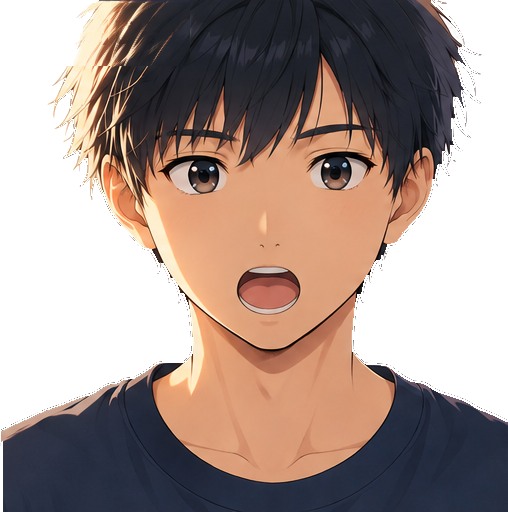
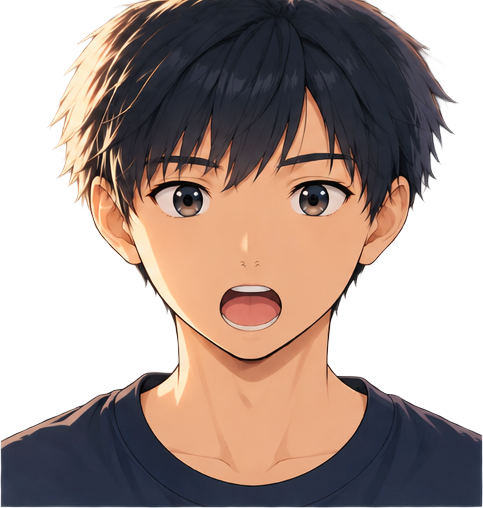
口パク素材の差し替え・声の変更・サムネイル改善・YouTube 設定手順の追加
- 新しい口パクシート（透過背景）に差し替え。prepare_character.py を透過背景のシートに対応
- 口パクの顔と表情の顔の大きさを揃える倍率を調整
- キャラの白フチを滑らかにして、髪の毛先のギザギザを解消
- 声の既定を白上虎太郎（話者ID 12）に変更
- サムネイル: 主題（スマホならスマホ本体）を大きく描く指示、2行の大きな文字、単語の途中で改行しない
- SETUP.md: YouTube の認証をブラウザだけで取得できる手順（OAuth 2.0 Playground）に更新

Claude-Session: https://claude.ai/code/session_01EomXqUG2rbQjMVzrZKAmid

diff --git a/main.py b/main.py
@@ -64,7 +64,7 @@ IMAGE_STYLE = os.getenv(
 )
 
 VOICEVOX_URL = os.getenv("VOICEVOX_URL", "http://localhost:50021")
-VOICEVOX_SPEAKER = int(os.getenv("VOICEVOX_SPEAKER") or "3")   # 3 = ずんだもん（ノーマル）
+VOICEVOX_SPEAKER = int(os.getenv("VOICEVOX_SPEAKER") or "12")  # 12 = 白上虎太郎（ふつう）。Variables で変更可
 VOICEVOX_SPEED = float(os.getenv("VOICEVOX_SPEED", "1.12"))
 TTS_ENGINE = os.getenv("TTS_ENGINE", "voicevox")               # voicevox / gtts
 
@@ -82,7 +82,7 @@ EXPRESSIONS = ("normal", "smile", "surprised", "thinking")
 # 解説キャラクター（assets/character/*.png があれば画面右下に表示）
 CHARACTER_DIR = Path(os.getenv("CHARACTER_DIR", "assets/character"))
 CHARACTER_HEIGHT = int(os.getenv("CHARACTER_HEIGHT", "430"))
-TALK_SCALE = float(os.getenv("TALK_SCALE", "1.035"))  # 口パク素材と表情素材の顔の大きさを揃える倍率
+TALK_SCALE = float(os.getenv("TALK_SCALE", "1.12"))  # 口パク素材と表情素材の顔の大きさを揃える倍率
 MOUTHS = ("a", "i", "u", "e", "o", "n")
 
 # 台本の品質チェック（企画との一致度・具体性）の合格ライン（10点満点）
@@ -110,8 +110,11 @@ class Script(BaseModel):
     video_title: str = Field(description="YouTube の動画タイトル（日本語、40文字以内）")
     description: str = Field(description="動画の概要欄の本文（日本語、3〜5行）")
     tags: list[str] = Field(description="YouTube のタグ 8〜15個")
-    thumbnail_text: str = Field(description="サムネイルに大きく載せる短いコピー（8〜14文字）")
-    thumbnail_prompt: str = Field(description="サムネイル用の印象的な挿絵の英語プロンプト。文字は含めない。")
+    thumbnail_text: str = Field(description="サムネイルに大きく載せる2行のコピー。1行目と2行目を改行(\\n)で区切り、各行2〜7文字。"
+                                            "単語の途中で改行しない。思わずクリックしたくなる強い言葉（例: スマホが\\n危ない！）")
+    thumbnail_prompt: str = Field(description="サムネイル用の挿絵の英語プロンプト。動画の主題そのもの（例: スマホの話ならスマートフォン本体、"
+                                              "お金の話なら紙幣や財布）を画面の左〜中央に大きくはっきり描く。明るく高コントラストで、背景はシンプル。"
+                                              "画面の右側3分の1は人物を置くので主題を置かない。人物・文字・ロゴは描かない。")
     chapters: list[Chapter]
 
 
@@ -415,7 +418,7 @@ class TTS:
                     return sp["name"]
         except Exception:
             pass
-        return "ずんだもん"
+        return "白上虎太郎"
 
     def synth(self, text: str) -> tuple[np.ndarray, list | None]:
         """音声と口パク用のタイミング [(開始秒, 終了秒, 口の形), ...] を返す。
@@ -726,16 +729,19 @@ class Character:
         img = img.resize((round(img.width * height / img.height), height), Image.LANCZOS)
         a0 = np.asarray(img.getchannel("A"))
         # 素材の上・左右が画像の端でまっすぐ切れているか（髪の毛が見切れている素材など）
-        cut_top = (a0[0] > 128).mean() > 0.03
-        cut_left = (a0[:, 0] > 128).mean() > 0.03
-        cut_right = (a0[:, -1] > 128).mean() > 0.03
+        # 髪の先が端に少し触れているだけなら「切れている」とはみなさない（不透明な部分が辺の15%以上で判定）
+        cut_top = (a0[0] > 128).mean() > 0.15
+        cut_left = (a0[:, 0] > 128).mean() > 0.15
+        cut_right = (a0[:, -1] > 128).mean() > 0.15
 
         pad = 12
         canvas = Image.new("RGBA", (img.width + pad * 2, img.height + pad), (0, 0, 0, 0))
         canvas.paste(img, (pad, pad), img)
         # 背景から浮かせるための白フチ
         a = canvas.getchannel("A").point(lambda v: 255 if v > 90 else 0)
-        a = a.filter(ImageFilter.MaxFilter(13)).filter(ImageFilter.GaussianBlur(1.2))
+        # 太らせてからぼかし→しきい値で角を丸め、髪の毛先でフチがギザギザになるのを防ぐ
+        a = a.filter(ImageFilter.MaxFilter(15)).filter(ImageFilter.GaussianBlur(8))
+        a = a.point(lambda v: 255 if v > 100 else 0).filter(ImageFilter.GaussianBlur(1.5))
         a = Image.fromarray((np.asarray(a).astype(np.float32) * 0.95).astype(np.uint8))
         out = Image.new("RGBA", canvas.size, (255, 255, 255, 0))
         out.putalpha(a)
@@ -976,50 +982,83 @@ def render_video(timeline: list[dict], narration_path: Path) -> Path:
 
 # ============================== 5. サムネイル・メタデータ ==============================
 
+def split_thumb_text(text: str) -> list[str]:
+    """サムネの文言を2行に分ける。改行があればそれに従い、なければ助詞などの切れ目で中央付近を選ぶ。"""
+    text = text.strip().replace("\\n", "\n")
+    if "\n" in text:
+        return [l.strip() for l in text.split("\n") if l.strip()][:2]
+    if len(text) <= 7:
+        return [text]
+    mid = len(text) / 2
+    cands = [i + 1 for i, ch in enumerate(text[:-1])
+             if ch in "のもはがをにでとへや、！？!?" or (ch in "ーっ" and i + 1 < len(text))]
+    # カタカナ語の途中で切らない
+    kata = lambda c: "゠" <= c <= "ヿ"
+    cands = [i for i in cands if not (kata(text[i - 1]) and kata(text[i]))]
+    cut = min(cands, key=lambda i: abs(i - mid)) if cands else int(mid)
+    if abs(cut - mid) > len(text) * 0.35:
+        cut = int(mid)
+    return [text[:cut], text[cut:]]
+
+
+def _fit_font(line: str, max_w: int, max_size: int, min_size: int = 70):
+    size = max_size
+    font = load_font(size)
+    while font.getlength(line) > max_w and size > min_size:
+        size -= 6
+        font = load_font(size)
+    return font
+
+
 def make_thumbnail(script: Script, timeline: list[dict], seed: int) -> Path:
+    """主題が伝わる絵＋大きな2行の文字＋驚き顔のキャラ、のYouTubeらしいサムネを作る。"""
     TW, TH = 1280, 720
     path = WORK / "thumbnail.jpg"
     src = IMG_DIR / "thumbnail_src.jpg"
     get_scene_image(script.thumbnail_prompt, timeline[0]["search_keyword"], src, seed)
-    img = Image.open(src).convert("RGB").resize((TW, TH), Image.LANCZOS)
-    img = ImageEnhance.Contrast(img).enhance(1.15)
-    img = ImageEnhance.Color(img).enhance(1.2)
+    img = Image.open(src).convert("RGB")
+    # 中央から 16:9 に切り抜いて、明るく・鮮やかに
+    img = img.resize((TW, TH), Image.LANCZOS)
+    img = ImageEnhance.Contrast(img).enhance(1.2)
+    img = ImageEnhance.Color(img).enhance(1.3)
+    img = ImageEnhance.Brightness(img).enhance(1.05)
 
-    # 文字を読みやすくするため下側を暗くする
+    # 文字の後ろ（左下）だけを暗くして、絵の主題は明るいまま残す
     shade = Image.new("L", (TW, TH), 0)
-    ImageDraw.Draw(shade).rectangle((0, 360, TW, TH), fill=160)
-    shade = shade.filter(ImageFilter.GaussianBlur(60))
+    ImageDraw.Draw(shade).rectangle((0, 400, 900, TH), fill=175)
+    shade = shade.filter(ImageFilter.GaussianBlur(70))
     img.paste((0, 0, 0), (0, 0), shade)
+    img = img.convert("RGBA")
 
-    # 驚いた表情のキャラを右下に大きく配置
-    text_right = TW - 50
-    char = Character(560)
+    # 驚き顔のキャラを右下に大きく
+    text_right = TW - 40
+    char = Character(600)
     if char.enabled:
         sprite = char.get("surprised")
-        x = TW - sprite.width + 40
-        img.paste(sprite, (x, TH - sprite.height + 14), sprite)
-        text_right = x + 60
+        x = TW - sprite.width + 70
+        img.alpha_composite(sprite, (x, TH - sprite.height + 14))
+        text_right = max(760, x + 90)
 
-    text = script.thumbnail_text.strip()[:16]
-    max_w = text_right - 50
-    size = 150
-    font = load_font(size)
-    lines = [text]
-    while size > 70:
-        lines = wrap_text(text, font, max_w)
-        if len(lines) <= 2:
-            break
-        size -= 8
-        font = load_font(size)
-    lines = lines[:2]
-    d = ImageDraw.Draw(img)
-    line_h = int(size * 1.15)
-    y = TH - 40 - len(lines) * line_h
-    for line in lines:
-        x = 50 if char.enabled else (TW - font.getlength(line)) / 2
-        d.text((x, y), line, font=font, fill=(255, 225, 40), stroke_width=12, stroke_fill=(10, 10, 10))
-        y += line_h
-    img.save(path, "JPEG", quality=90)
+    # 2行の大きな文字（1行目=白、2行目=黄色）。行ごとに入る最大サイズにする
+    lines = split_thumb_text(script.thumbnail_text)
+    max_w = text_right - 45
+    styles = [((255, 255, 255), (0, 0, 0)), ((255, 221, 0), (0, 0, 0))]
+    fonts = [_fit_font(l, max_w, 175 if len(lines) > 1 else 190) for l in lines]
+    if len(fonts) == 2:  # 2行の大きさが極端に違わないようにそろえる
+        small = min(f.size for f in fonts)
+        fonts = [load_font(min(f.size, int(small * 1.25))) for f in fonts]
+    total_h = sum(int(f.size * 1.12) for f in fonts)
+    y = TH - 38 - total_h
+    layer = Image.new("RGBA", (TW, TH), (0, 0, 0, 0))
+    d = ImageDraw.Draw(layer)
+    for i, (line, font) in enumerate(zip(lines, fonts)):
+        fill, stroke = styles[min(i, 1)] if len(lines) > 1 else styles[1]
+        sw = max(8, font.size // 11)
+        d.text((40 + 7, y + 9), line, font=font, fill=(0, 0, 0, 160), stroke_width=sw, stroke_fill=(0, 0, 0, 160))  # 影
+        d.text((40, y), line, font=font, fill=fill, stroke_width=sw, stroke_fill=stroke)
+        y += int(font.size * 1.12)
+    img.alpha_composite(layer)
+    img.convert("RGB").save(path, "JPEG", quality=92)
     return path
 
 

diff --git a/prepare_character.py b/prepare_character.py
@@ -2,13 +2,14 @@
 
 使い方: python prepare_character.py
 
-1) 表情シート assets/character_sheet.png（2×2・白背景）
+1) 表情シート assets/character_sheet.png（2×2・白背景または透過背景）
    左上=通常、右上=笑顔、左下=驚き、右下=考え中
    → assets/character/{normal,smile,surprised,thinking}.png
 
-2) 口パクシート assets/mouth_sheet.png（3×2・白背景）
+2) 口パクシート assets/mouth_sheet.png（3×2・白背景または透過背景）
    上段: あ・い・う / 下段: え・お・口を閉じる
    → assets/character/talk/{a,i,u,e,o,n}.png
+   白背景・透過背景（PNGの透明部分）のどちらのシートでも使えます。
    「口を閉じる」の顔をベースにして、各母音の絵から口元だけを切り取って重ねます。
    こうすると口以外（髪・目・輪郭）は完全に同じ絵になり、切り替えてもガタつきません。
 
@@ -64,8 +65,17 @@ def make_expressions(path: Path) -> None:
         return
     out = OUT_DIR
     out.mkdir(parents=True, exist_ok=True)
-    for name, cell in zip(EXPR_ORDER, split_grid(Image.open(path).convert("RGB"), 2, 2)):
-        img = cut_out(Image.fromarray(cell.astype(np.uint8)))
+    rgba = Image.open(path).convert("RGBA")
+    transparent = np.asarray(rgba.getchannel("A")).min() < 250   # 透過背景のシートか
+    w, h = rgba.size
+    for i, name in enumerate(EXPR_ORDER):
+        c, r = i % 2, i // 2
+        cell = rgba.crop((c * w // 2, r * h // 2, (c + 1) * w // 2, (r + 1) * h // 2))
+        if transparent:
+            cell.putalpha(Image.fromarray(_clean_alpha(np.asarray(cell.getchannel("A")))))
+            img = cell.crop(cell.getbbox())
+        else:
+            img = cut_out(cell.convert("RGB"))
         img.save(out / f"{name}.png")
         print(f"表情 {name}.png  {img.size}")
 
@@ -88,13 +98,39 @@ def _align(cell: np.ndarray, base: np.ndarray, search: int = 20) -> tuple[int, i
     return best[1], best[2]
 
 
+def _clean_alpha(alpha: np.ndarray) -> np.ndarray:
+    """透過シートのアルファから、ほぼ透明なノイズや小さな点のゴミを取り除く。"""
+    a = np.where(alpha < 16, 0, alpha).astype(np.uint8)
+    solid = Image.fromarray(np.where(a > 0, 255, 0).astype(np.uint8))
+    keep = solid.filter(ImageFilter.MinFilter(3)).filter(ImageFilter.MaxFilter(7))  # 孤立した点を消す
+    a = np.where(np.asarray(keep) > 0, a, 0).astype(np.uint8)
+    # 隣のコマからはみ出した服の端などを消すため、中央（顔）につながった部分だけを残す
+    body = Image.fromarray(np.where(a > 0, 255, 0).astype(np.uint8)).copy()
+    h, w = a.shape
+    seed = (w // 2, int(h * 0.6))
+    if body.getpixel(seed) == 255:
+        ImageDraw.floodfill(body, seed, 128, thresh=0)
+        a = np.where(np.asarray(body) == 128, a, 0).astype(np.uint8)
+    return a
+
+
 def make_talk(path: Path) -> None:
     if not path.exists():
         print(f"{path} がないため、口パク素材の作成をスキップします。")
         return
-    cells = split_grid(Image.open(path).convert("RGB"), 3, 2)
+    sheet = Image.open(path)
+    rgba = sheet.convert("RGBA")
+    transparent = np.asarray(rgba.getchannel("A")).min() < 250   # 透過背景のシートか
+    on_white = Image.new("RGBA", rgba.size, (255, 255, 255, 255))
+    on_white.alpha_composite(rgba)
+
+    cells = split_grid(on_white.convert("RGB"), 3, 2)
     base = cells[5]                         # 「口を閉じる」の顔をベースにする
     h, w = base.shape[:2]
+    base_alpha = None
+    if transparent:
+        cw, ch = rgba.width // 3, rgba.height // 2
+        base_alpha = _clean_alpha(np.asarray(rgba.getchannel("A").crop((2 * cw, ch, 3 * cw, 2 * ch))))
     aligned = [_shift(c, *_align(c, base)) for c in cells[:5]] + [base]
 
     # 口の位置：各母音とベースの差分の重心（顔の下半分・中央付近だけを見る）
@@ -107,19 +143,20 @@ def make_talk(path: Path) -> None:
             centers.append((xs.mean() + x0, ys.mean() + y0))
     cx, cy = np.median([c[0] for c in centers]), np.median([c[1] for c in centers])
     rx, ry = w * 0.10, h * 0.07
-    print(f"口の中心: ({cx:.0f}, {cy:.0f})")
+    print(f"口の中心: ({cx:.0f}, {cy:.0f})  背景: {'透過' if transparent else '白'}")
 
     mask = Image.new("L", (w, h), 0)
     ImageDraw.Draw(mask).ellipse((cx - rx, cy - ry, cx + rx, cy + ry), fill=255)
     mask = np.asarray(mask.filter(ImageFilter.GaussianBlur(8))).astype(np.float32)[..., None] / 255
     ring = (mask[..., 0] > 0.05) & (mask[..., 0] < 0.5)
 
-    # ベースの左上に書かれたラベル文字（「口を閉じる」など）を消す
     clean = base.copy()
-    lab_h, lab_w = int(h * 0.13), int(w * 0.38)
-    median = np.median(np.stack([a[:lab_h, :lab_w] for a in aligned]), axis=0)
-    clean[:lab_h, :lab_w] = median
-    clean[:lab_h, :int(w * 0.12)] = 255  # 一番左は背景
+    if not transparent:
+        # 白背景のシートでは、ベースの左上に書かれたラベル文字（「口を閉じる」など）を消す
+        lab_h, lab_w = int(h * 0.13), int(w * 0.38)
+        median = np.median(np.stack([a[:lab_h, :lab_w] for a in aligned]), axis=0)
+        clean[:lab_h, :lab_w] = median
+        clean[:lab_h, :int(w * 0.12)] = 255  # 一番左は背景
 
     out = OUT_DIR / "talk"
     out.mkdir(parents=True, exist_ok=True)
@@ -129,7 +166,13 @@ def make_talk(path: Path) -> None:
         else:
             a = a + (clean[ring].mean(axis=0) - a[ring].mean(axis=0))  # 肌の色味を合わせる
             comp = clean * (1 - mask) + a * mask
-        img = cut_out(Image.fromarray(np.clip(comp, 0, 255).astype(np.uint8)))
+        rgb = Image.fromarray(np.clip(comp, 0, 255).astype(np.uint8))
+        if transparent:
+            img = rgb.convert("RGBA")
+            img.putalpha(Image.fromarray(base_alpha))   # 輪郭は「口を閉じる」の顔の透明度をそのまま使う
+            img = img.crop(img.getbbox())
+        else:
+            img = cut_out(rgb)
         img.save(out / f"{name}.png")
         print(f"口パク {name}.png  {img.size}")
 
